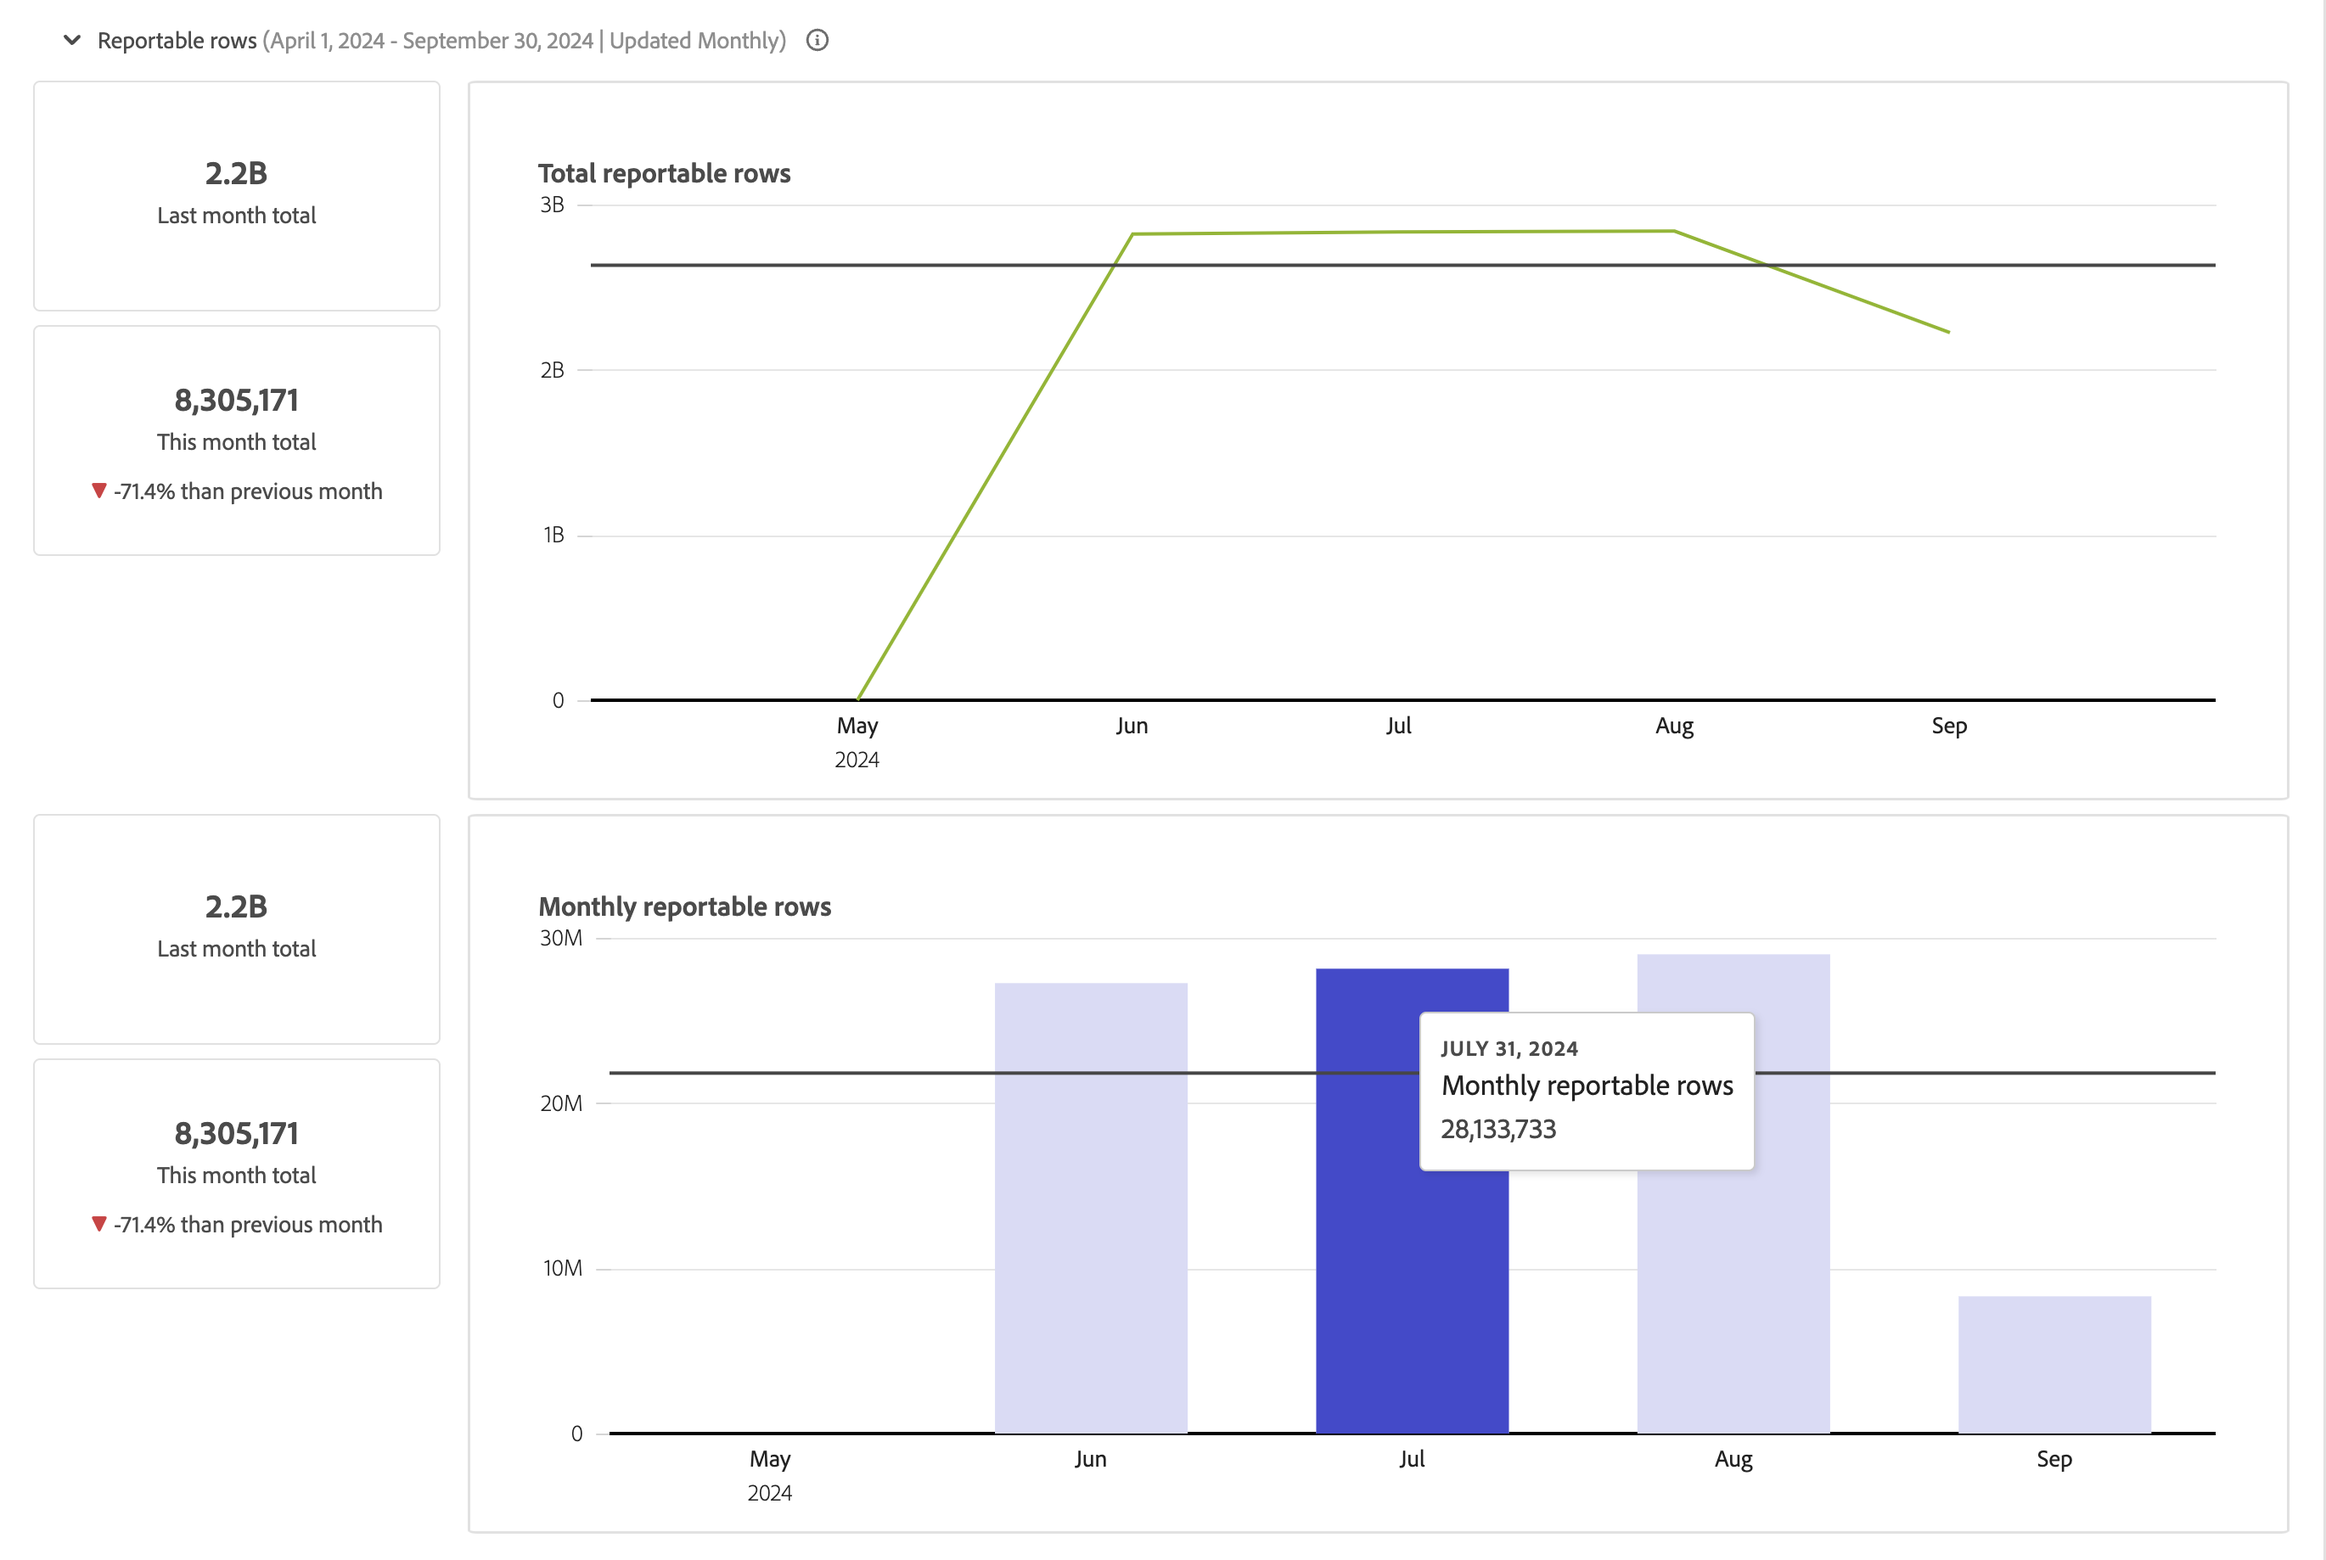
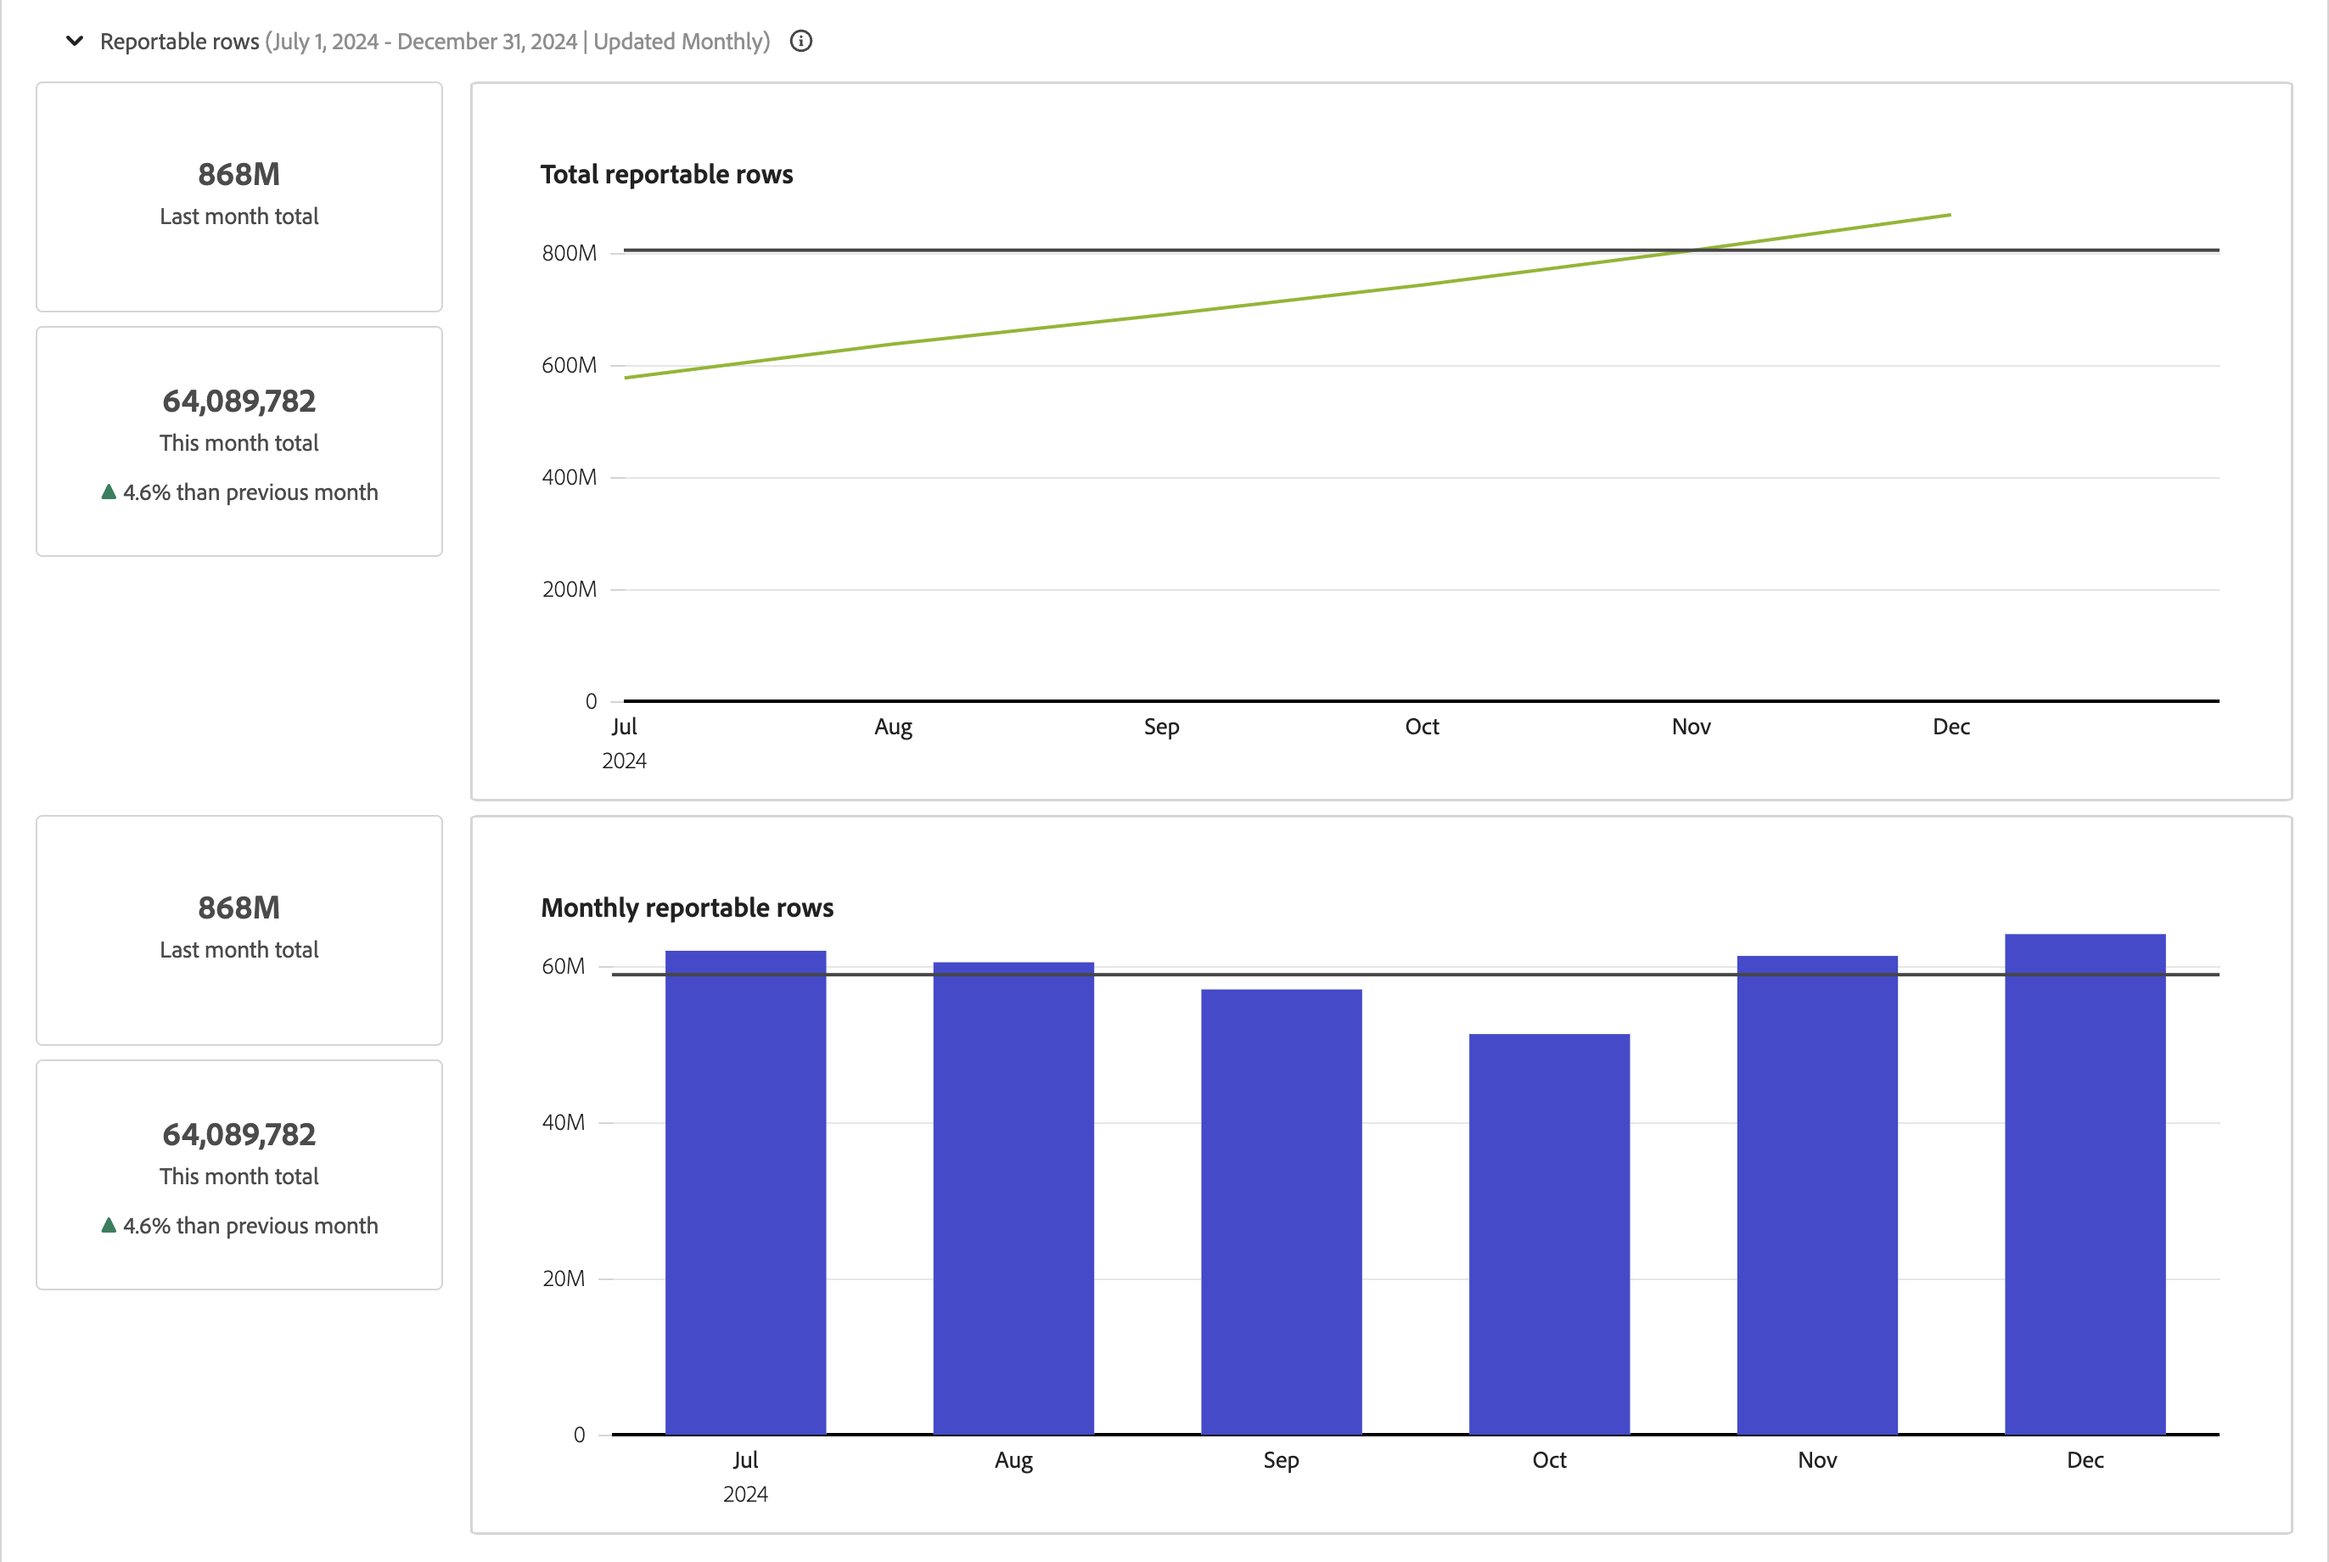
Updates

diff --git a/help/connections/manage-connections.md b/help/connections/manage-connections.md
@@ -208,7 +208,7 @@ The Usage interface uses the folowing metrics
 
 | Metric name | Description |
 |---|---|
-| Historical reportable rows | Count of rows from the start of your retention window up until the current month. |
+| Historical reportable rows | Count of rows for the period older than 13 months. |
 | Core reportable rows | Count of rows over the last 13 months. | 
 | Ingested rows | How many rows are ingested for the specific period. |
 | Reportable rows | How many rows of data do you have as part of the connection for the specific period. |
@@ -223,17 +223,19 @@ The Usage interface uses the folowing metrics
 
 The Usage interface consists of two panels:
 
-* The **[!UICONTROL Key Usage Metrics]** panel: provides core and historical data reportable rows. The panel also tracks percentage changes compared to the previous month for both core and historical data rows.
+* The **[!UICONTROL Key usage metrics]** panel: provides core and historical data reportable rows. The panel also tracks percentage changes compared to the previous month for both core and historical data rows.
   
-  The panel displays two visualizations: 
+  The panel displays in a visualization: 
   
   * **[!UICONTROL Core data reportable rows]**.
 
-    How many reportable rows do you have over the last 13 months. The summary number is the number of reportable rows for the last month (in the example November 2023 - November 2024). When you hover over any data point, the popup shows the number of reportable rows for that specific month (in the example September 2024).
+    How many reportable rows do you have over the last 13 months. The summary number is the number of core reportable rows (for example, 741M) for the last month (for example, December 2024).
     
   * **[!UICONTROL Historical data reportable rows]**.
 
-    How many reportable rows do you have for the months starting from your retention window up until now, minus the last 13 months. The summary number is the total number of historical reportable rows for that period. In case the start of you retention window is September 2022, the example reports reportable rows from September 2022 - October 2023. When you hover over any data point, the popup shows the number of reportable rows for that specific month.
+    How many reportable rows do you have for the period older than 13 months. The summary number is the number of historical reportable rows (for example, 127M) for the last month (for example, December 2024). 
+    
+  When you hover over any stacked bar in the visualization, a popup shows the number of rows for that specific part of the bar (for example).
 
 
   ![Key Usage Metrics](assets/usage-key-usage-metrics.png)
@@ -242,7 +244,7 @@ The Usage interface consists of two panels:
 
   +++ Ingested rows
 
-  The **[!UICONTROL Ingested rows]** subpanel measures the total number of records added to the system each month, providing insight into data growth and ingestion rates. The subpanel shows details for **[!UICONTROL Total ingested rows]** and **[!UICONTROL Monthly ingested rows]**.
+  The **[!UICONTROL Ingested rows]** subpanel measures the total number of records added to the system each month, providing insight into data growth and ingestion rates. The subpanel provides a summary of this month's total ingested rows and the change from the previous month.
 
   ![Ingested rows](assets/usage-ingested-rows.png)
 
@@ -252,7 +254,10 @@ The Usage interface consists of two panels:
 
   +++ Reportable rows
 
-  The **[!UICONTROL Reportable rows]** visualization tracks the number of rows available for reporting by subtracting skipped and deleted rows from ingested rows, serving as a key metric for billing and data usage. The subpanel shows details for **[!UICONTROL Total ingested rows]** and **[!UICONTROL Monthly ingested rows]**.
+  The **[!UICONTROL Reportable rows]** visualization tracks the number of rows available for reporting by subtracting skipped and deleted rows from ingested rows, serving as a key metric for billing and data usage. The subpanel provides 
+  
+  - A summary of total reportable rows up until this month.
+  - A summary of this month's total reportable rows and the change from the previous month.
 
   ![Reportable rows](assets/usage-reportable-rows.png)
 
@@ -262,9 +267,11 @@ The Usage interface consists of two panels:
 
   +++ Detail breakdown
 
-  You can use the **[!UICONTROL Detail breakdown]** table to view detailed metrics by connection, dataset, sandbox, and tags. Datasets are reported using ids instead of names, as dataset names can be modified during a reporting period.
+  You can use the **[!UICONTROL Detail breakdown]** table to view detailed metrics by connection, dataset, sandbox, and tags. Datasets are reported using ids instead of names, as dataset names can be modified during a reporting period. Unknown datasets or connections are reported using ids.
 
-  * To change the breakdown, select a combination for **[!UICONTROL View by]** and B**[!UICONTROL Breakdown by]**.
+  For the months before September 2024, data was collected at the dataset level and is displayed as [!UICONTROL Other datasets] for clarity. Starting from September 2024, data is gathered at a granular dataset level, and [!UICONTROL Other datasets] does no longer appear.
+
+  * To change the breakdown, select a combination for **[!UICONTROL View by]** and **[!UICONTROL Breakdown by]**.
 
     | **[!UICONTROL View by]** options | **[!UICONTROL Breakdown by]** options |
     |---|---|
